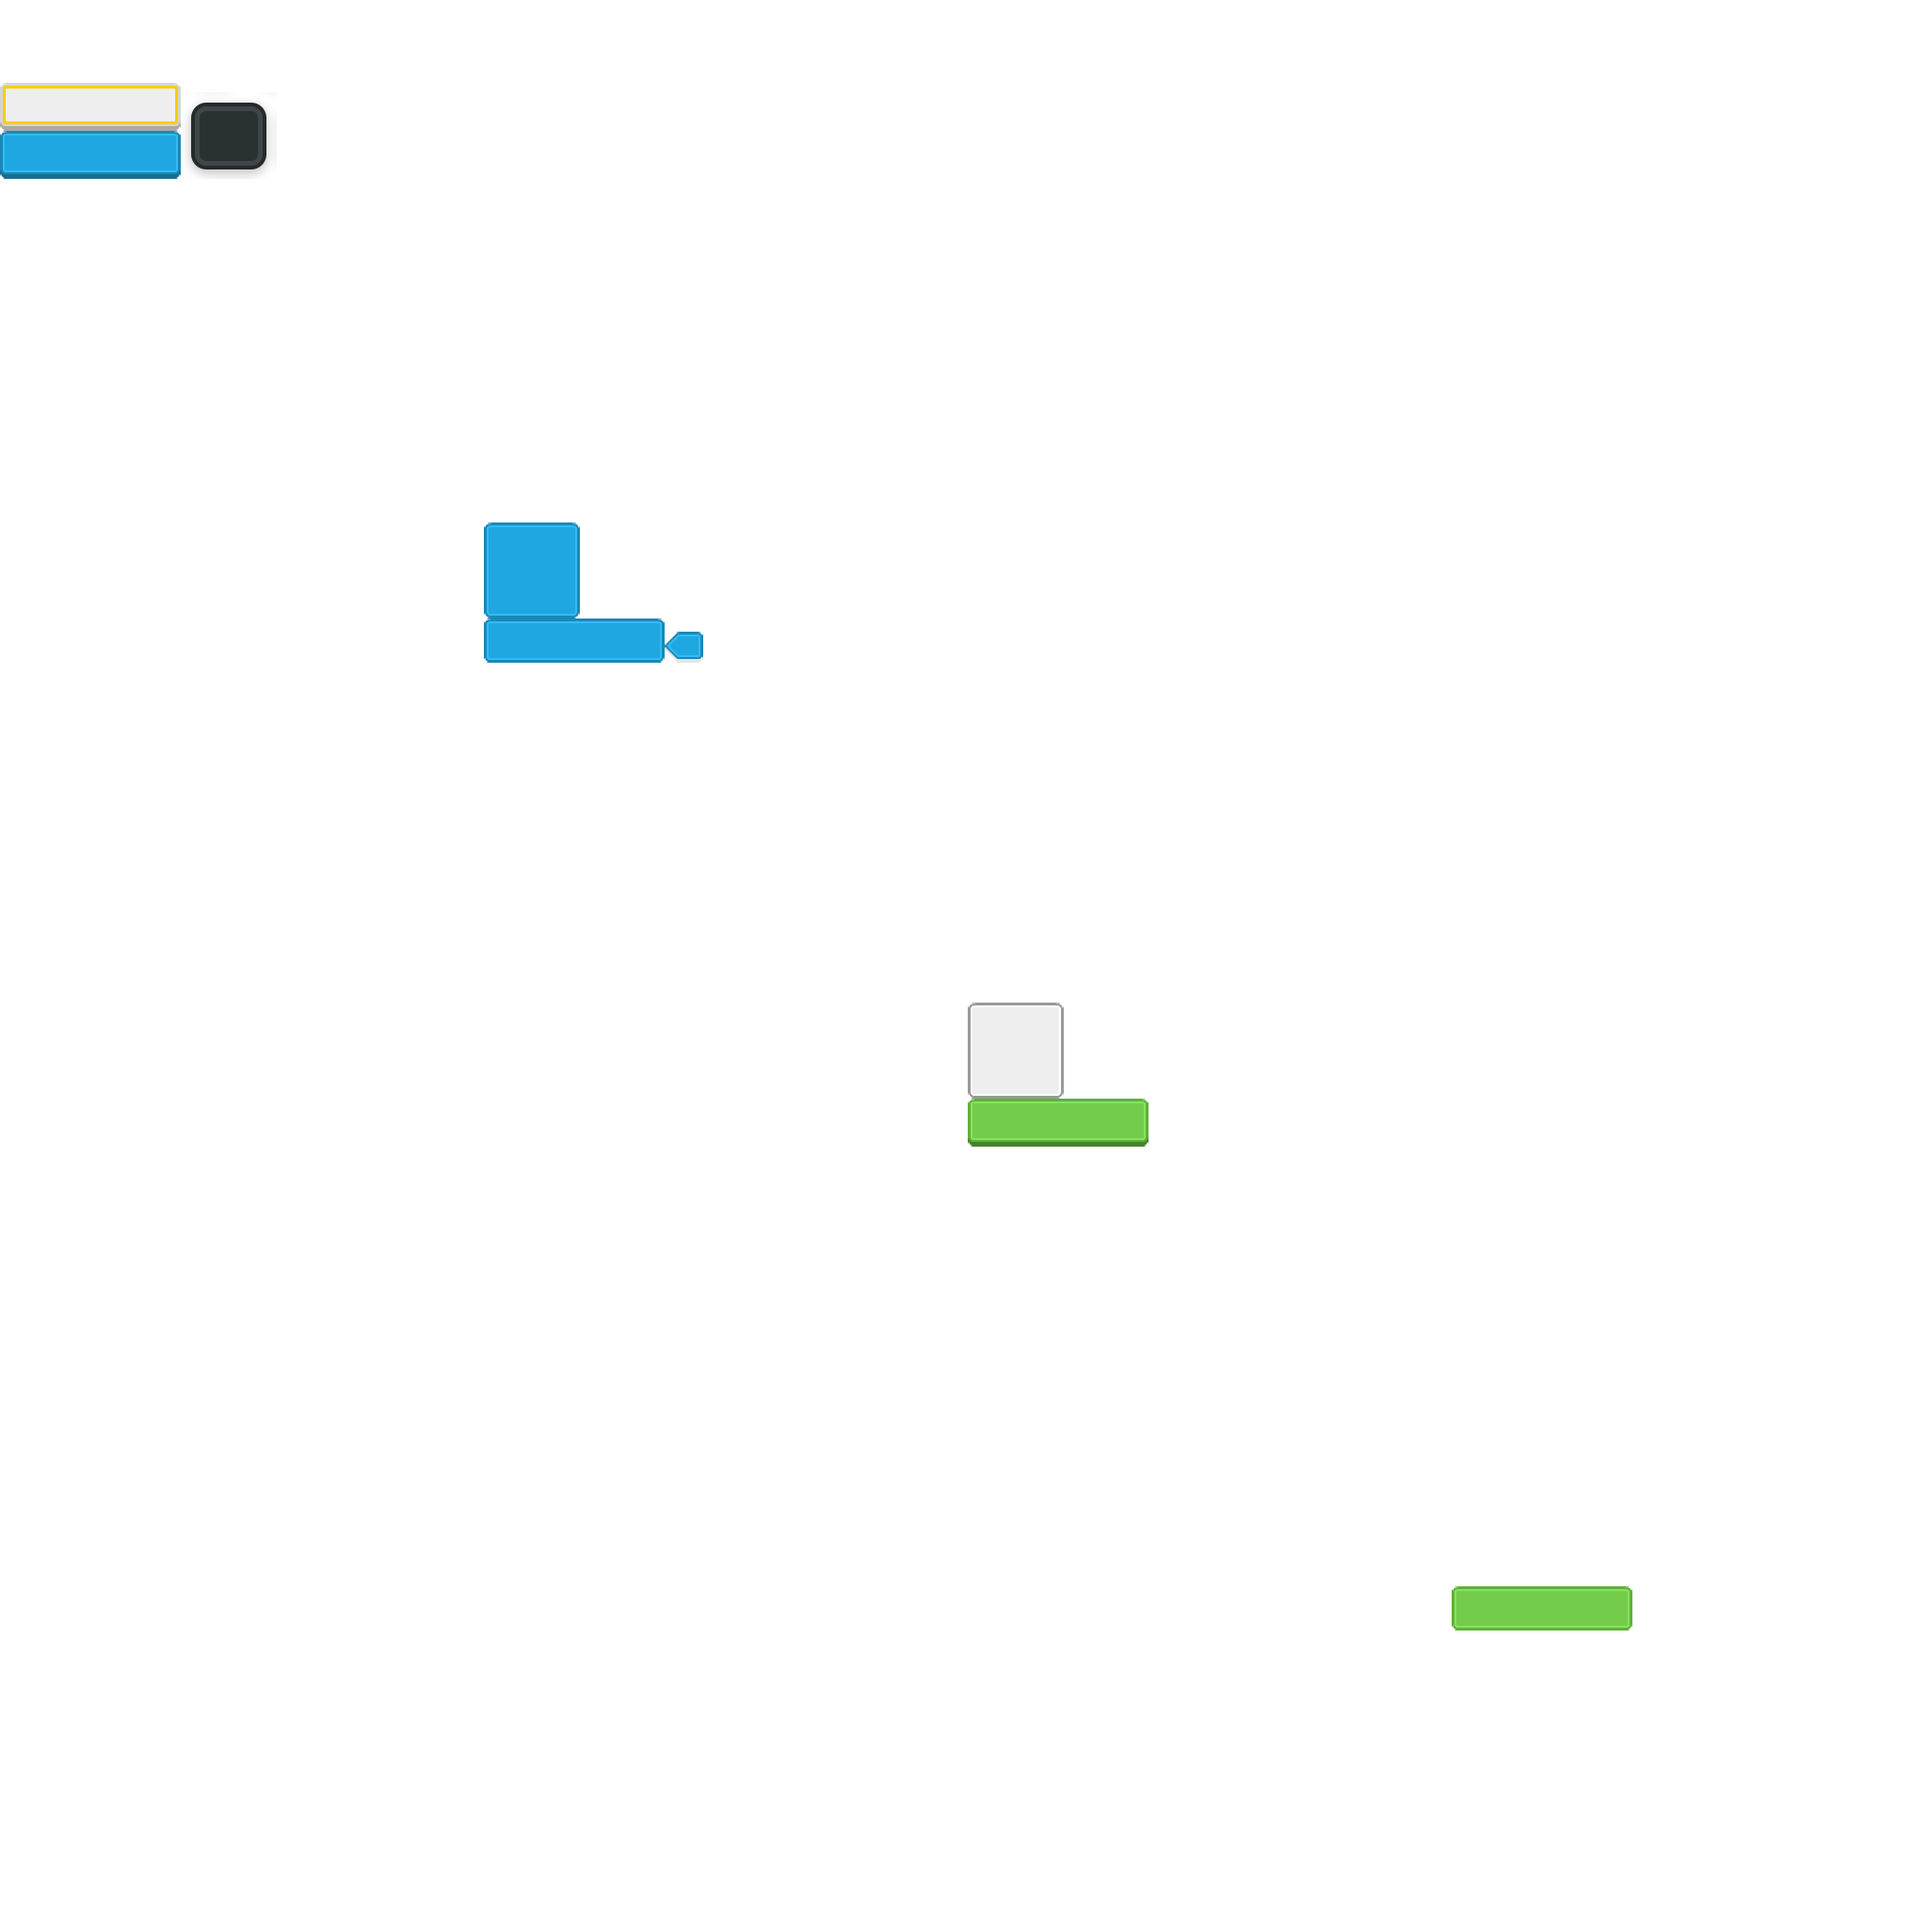
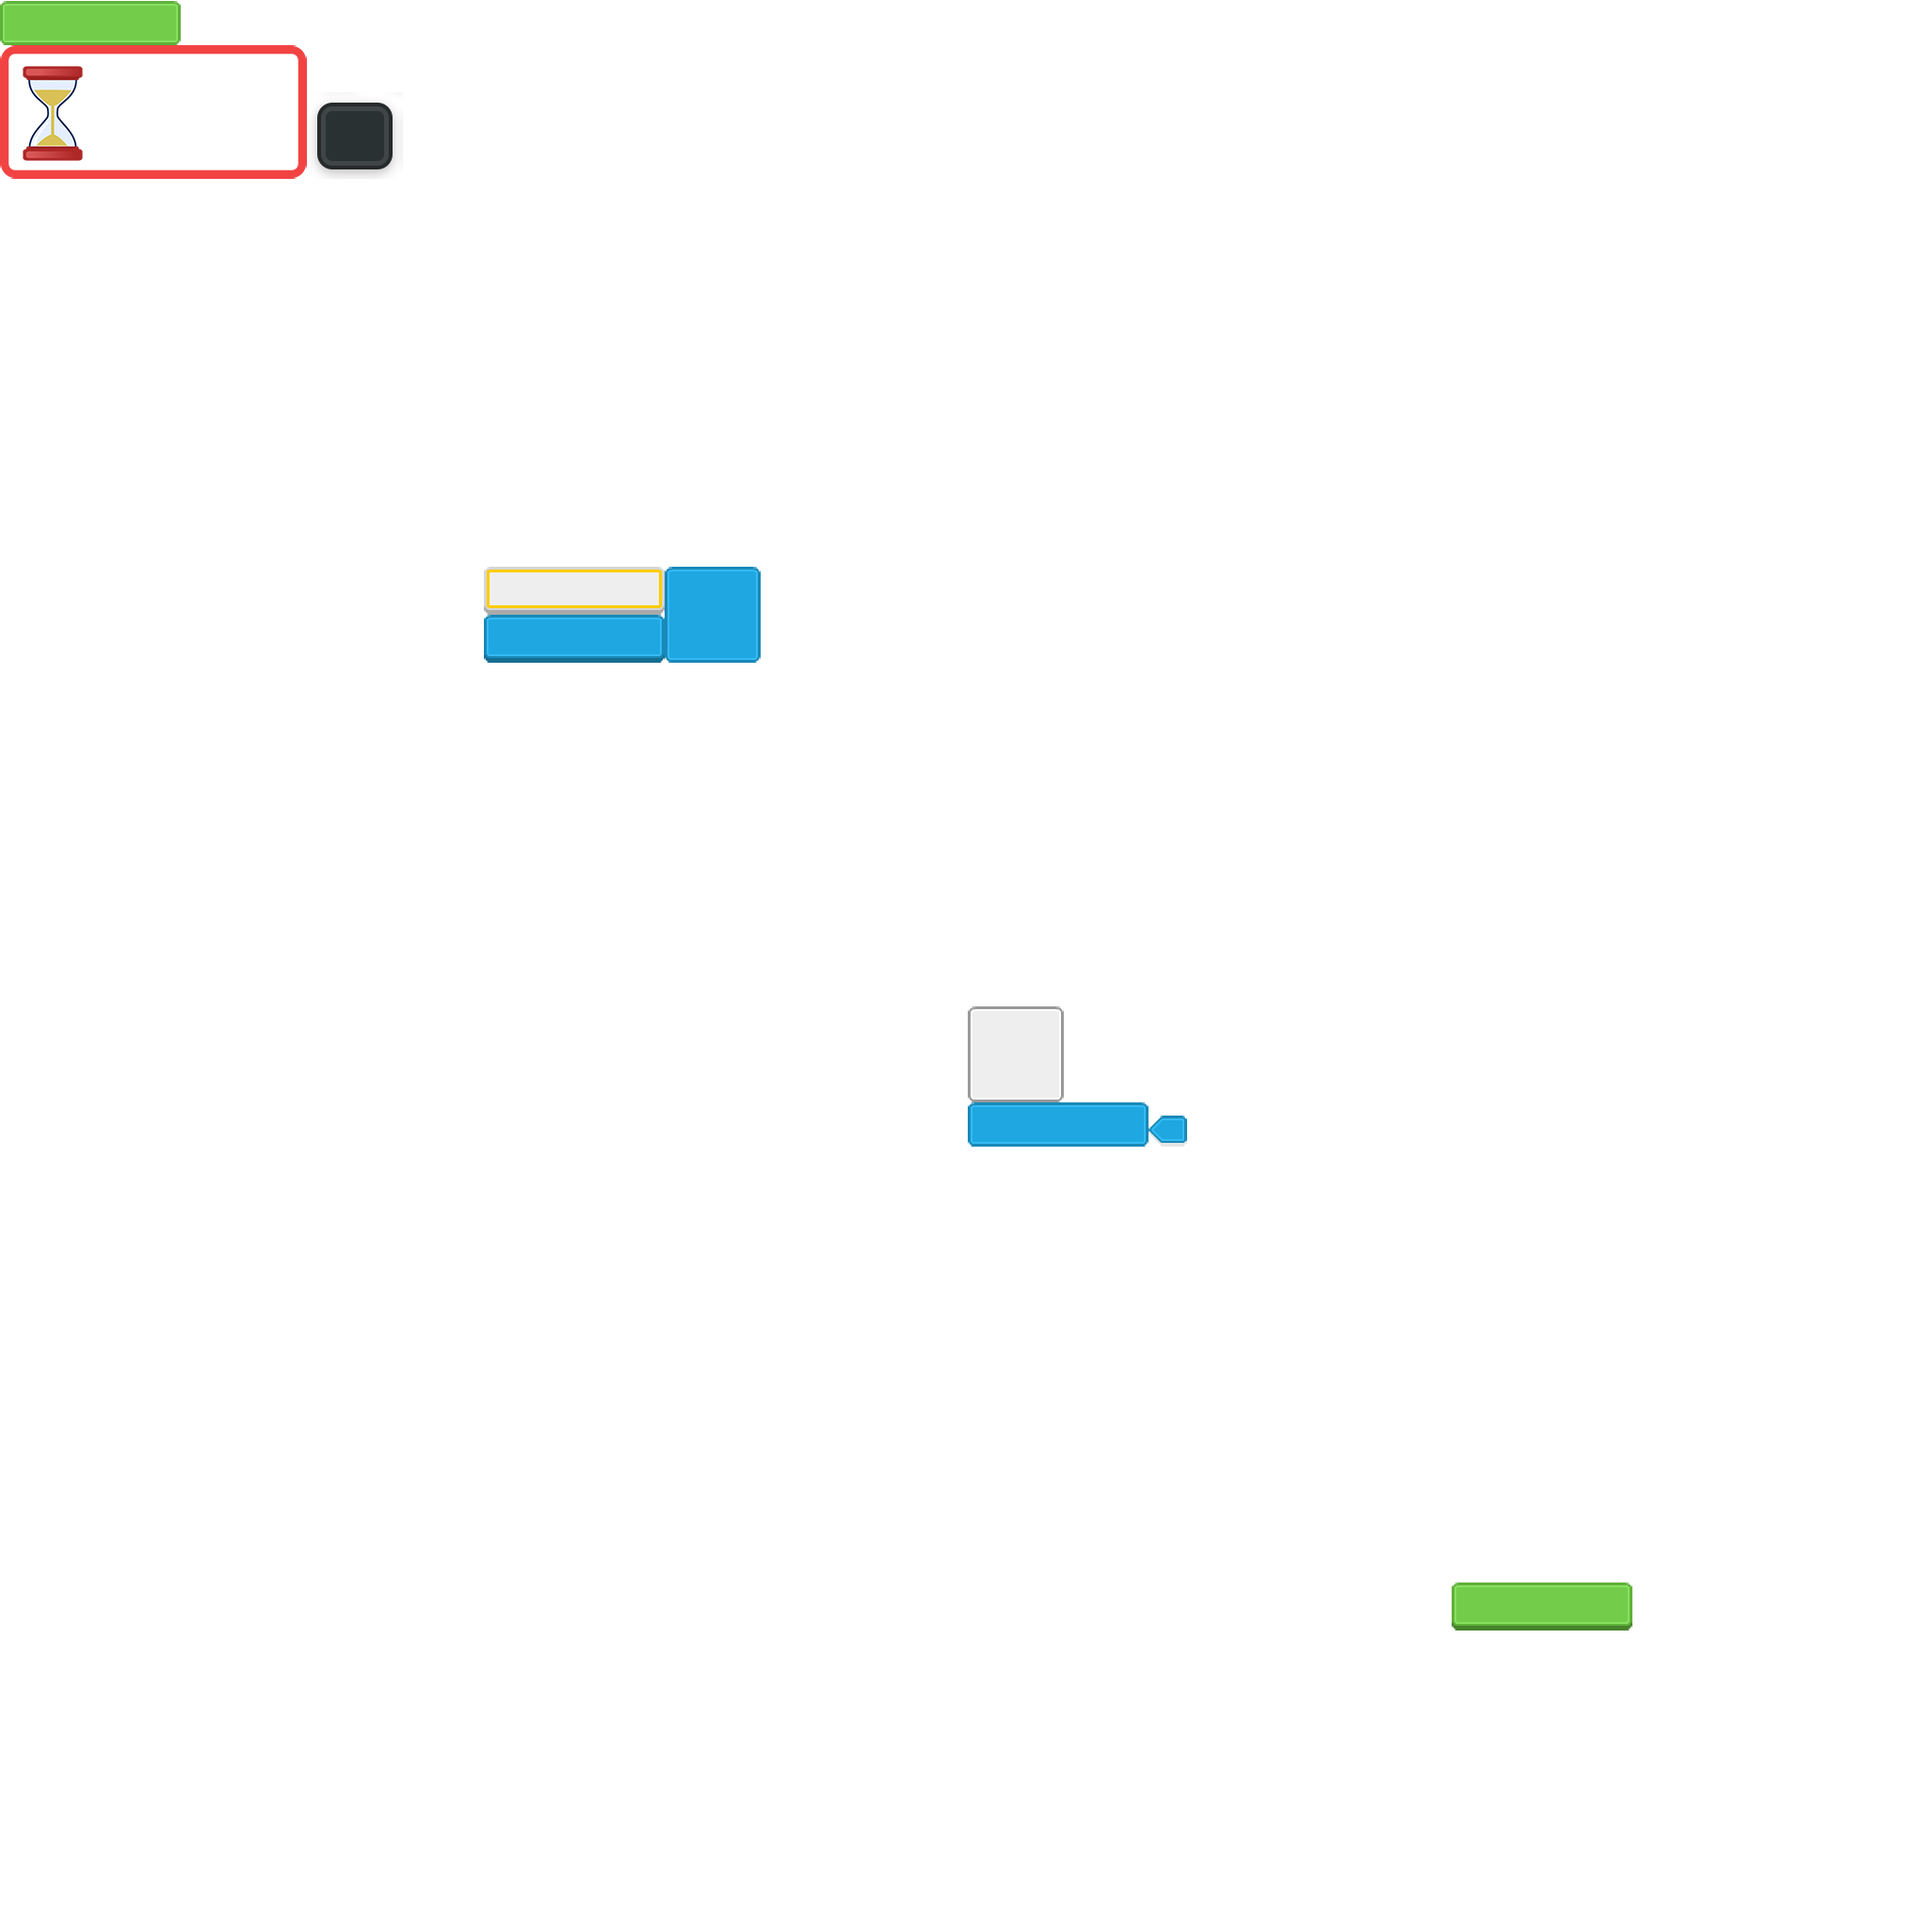
Add timeout penalty if you invalid slap when you have no cards

diff --git a/core/src/com/jaeheonshim/ersgame/screen/GameScreen.java b/core/src/com/jaeheonshim/ersgame/screen/GameScreen.java
@@ -1,15 +1,18 @@
 package com.jaeheonshim.ersgame.screen;
 
 import com.badlogic.gdx.Gdx;
+import com.badlogic.gdx.Input;
 import com.badlogic.gdx.Screen;
 import com.badlogic.gdx.graphics.Color;
 import com.badlogic.gdx.scenes.scene2d.InputEvent;
+import com.badlogic.gdx.scenes.scene2d.InputListener;
 import com.badlogic.gdx.scenes.scene2d.Stage;
 import com.badlogic.gdx.scenes.scene2d.actions.AlphaAction;
 import com.badlogic.gdx.scenes.scene2d.actions.RunnableAction;
 import com.badlogic.gdx.scenes.scene2d.actions.SequenceAction;
 import com.badlogic.gdx.scenes.scene2d.ui.ScrollPane;
 import com.badlogic.gdx.scenes.scene2d.ui.Skin;
+import com.badlogic.gdx.scenes.scene2d.ui.Stack;
 import com.badlogic.gdx.scenes.scene2d.ui.Table;
 import com.badlogic.gdx.scenes.scene2d.utils.ClickListener;
 import com.badlogic.gdx.utils.ScreenUtils;
@@ -35,7 +38,10 @@ import java.util.Map;
 public class GameScreen implements Screen, GameStateUpdateListener, GameActionListener {
     private ERSGame game;
     private Stage stage;
+
     private Table table;
+    private Table overlayTable;
+    private Stack stack;
 
     private PileDisplayActor pileDisplayActor;
     private PlayersPane playersPane;
@@ -44,10 +50,13 @@ public class GameScreen implements Screen, GameStateUpdateListener, GameActionLi
 
     private ERSLabel pileCount;
     private ERSLabel selfCount;
+    private ERSLabel timeoutLabel;
     private ERSTextButton playButton;
 
     private boolean awaitGameUpdatePile;
     private boolean pendingPileUpdate;
+
+    private float timeoutTimer = 0;
 
     public GameScreen(ERSGame game) {
         this.game = game;
@@ -77,6 +86,8 @@ public class GameScreen implements Screen, GameStateUpdateListener, GameActionLi
 
         playButton = new ERSTextButton("Play", skin, game);
 
+        timeoutLabel = new ERSLabel("0:00", skin, "timeout", game);
+
         table.setFillParent(true);
         table.add(playerScrollPane).expandX().height(200).fill().top();
         table.row();
@@ -88,7 +99,17 @@ public class GameScreen implements Screen, GameStateUpdateListener, GameActionLi
         table.row();
         table.add(playButton).expandY().top().padTop(2);
 
-        stage.addActor(table);
+        overlayTable = new Table();
+        table.setFillParent(true);
+        overlayTable.add(timeoutLabel).center().padLeft(50);
+        timeoutLabel.setVisible(false);
+
+        stack = new Stack();
+        stack.setFillParent(true);
+        stack.add(table);
+        stack.add(overlayTable);
+
+        stage.addActor(stack);
         stage.addActor(animationCard);
 
         playButton.addListener(new ClickListener() {
@@ -113,6 +134,8 @@ public class GameScreen implements Screen, GameStateUpdateListener, GameActionLi
         pileDisplayActor.addListener(new ClickListener() {
             @Override
             public void clicked(InputEvent event, float x, float y) {
+                if(timeoutTimer > 0) return;
+
                 if(GameStateManager.getInstance().getGameState().getPileCount() <= 0) {
                     OverlayStage.getInstance().postOverlayMessage("There aren't any cards to slap!");
                     return;
@@ -215,6 +238,11 @@ public class GameScreen implements Screen, GameStateUpdateListener, GameActionLi
         animationCard.flyIn(pileDisplayActor.getX(), pileDisplayActor.getY(), !you, () -> {});
     }
 
+    @Override
+    public void onGameTimeout(float time) {
+        this.timeoutTimer = time;
+    }
+
     public void updatePlayButtonDisableState() {
         Player selfPlayer = GameStateManager.getInstance().getSelfPlayer();
 
@@ -248,6 +276,14 @@ public class GameScreen implements Screen, GameStateUpdateListener, GameActionLi
         resize(Gdx.graphics.getWidth(), Gdx.graphics.getHeight());
         Gdx.input.setInputProcessor(stage);
         onUpdate(GameStateManager.getInstance().getGameState());
+
+        stage.addListener(new InputListener() {
+            @Override
+            public boolean keyDown(InputEvent event, int keycode) {
+                timeoutTimer = 30;
+                return true;
+            }
+        });
     }
 
     @Override
@@ -267,6 +303,15 @@ public class GameScreen implements Screen, GameStateUpdateListener, GameActionLi
                 pileDisplayActor.setTopFlipped(true);
                 pileDisplayActor.flipTop();
             }
+        }
+
+        if(timeoutTimer > 0) {
+            timeoutTimer -= delta;
+            timeoutLabel.setVisible(true);
+            timeoutLabel.setText(getTimeoutTimerString(timeoutTimer));
+        } else {
+            timeoutTimer = 0;
+            timeoutLabel.setVisible(false);
         }
     }
 
@@ -293,5 +338,14 @@ public class GameScreen implements Screen, GameStateUpdateListener, GameActionLi
     @Override
     public void dispose() {
 
+    }
+
+    public static String getTimeoutTimerString(float timeoutTimer) {
+        int mins = (int) (timeoutTimer / 60);
+        int secs = (int) (timeoutTimer % 60);
+
+        String secsString = secs < 10 ? "0" + secs : Integer.toString(secs);
+
+        return mins + ":" + secsString;
     }
 }

diff --git a/server/src/main/java/com/jaeheonshim/ersgame/server/listener/CardActionListener.java b/server/src/main/java/com/jaeheonshim/ersgame/server/listener/CardActionListener.java
@@ -1,6 +1,7 @@
 package com.jaeheonshim.ersgame.server.listener;
 
 import com.jaeheonshim.ersgame.server.action.ReenablePlayAction;
+import com.jaeheonshim.ersgame.server.action.ReleaseTimeoutAction;
 import com.jaeheonshim.ersgame.util.ERSException;
 import com.jaeheonshim.ersgame.game.model.CardType;
 import com.jaeheonshim.ersgame.game.model.GameState;
@@ -44,6 +45,8 @@ public class CardActionListener extends ServerPacketListener {
                 boolean isValid = GameStateUtil.isValidSlap(gameState);
                 Player player = gameState.getPlayer(uuid);
 
+                if(player.isTimedOut()) throw new ERSException("You aren't allowed to slap right now!");
+
                 if(isValid) {
                     int incrementAmount = gameState.getPileCount();
                     server.broadcast(new OverlayMessagePacket(player.getUsername() + " slapped: +" + incrementAmount + " cards"), gameState);
@@ -59,12 +62,18 @@ public class CardActionListener extends ServerPacketListener {
 
                     server.broadcast(new PointChangePacket(player.getUuid(), incrementAmount), gameState);
                 } else {
-                    server.broadcast(new OverlayMessagePacket(player.getUsername() + " slapped: -1 cards"), gameState);
-                    server.broadcastExcept(new GameActionPacket(GameAction.OTHERS_DISCARD), gameState, uuid);
-                    server.send(new GameActionPacket(GameAction.YOU_DISCARD), uuid);
                     if(player.getCardCount() > 0) {
+                        server.broadcastExcept(new GameActionPacket(GameAction.OTHERS_DISCARD), gameState, uuid);
+                        server.send(new GameActionPacket(GameAction.YOU_DISCARD), uuid);
+                        server.broadcast(new OverlayMessagePacket(player.getUsername() + " slapped: -1 cards"), gameState);
                         gameState.addCardToBottom(player.removeTopCard());
                         server.broadcast(new PointChangePacket(player.getUuid(), -1), gameState);
+                    } else {
+                        float timeAmount = 10;
+                        server.broadcast(new OverlayMessagePacket(player.getUsername() + " slapped: " + ((int) timeAmount) + " sec penalty!"), gameState);
+                        server.send(new SlapTimeoutPacket(timeAmount), player.getUuid());
+                        player.setTimedOut(true);
+                        server.schedule(new ReleaseTimeoutAction(timeAmount, player));
                     }
                 }
 

diff --git a/core/src/com/jaeheonshim/ersgame/net/listener/SlapTimeoutPacketListener.java b/core/src/com/jaeheonshim/ersgame/net/listener/SlapTimeoutPacketListener.java
@@ -1,0 +1,24 @@
+package com.jaeheonshim.ersgame.net.listener;
+
+import com.badlogic.gdx.Gdx;
+import com.github.czyzby.websocket.WebSocket;
+import com.jaeheonshim.ersgame.game.GameStateManager;
+import com.jaeheonshim.ersgame.net.packet.SlapTimeoutPacket;
+import com.jaeheonshim.ersgame.net.packet.SocketPacket;
+
+public class SlapTimeoutPacketListener extends SocketPacketListener {
+    @Override
+    public boolean receive(WebSocket socket, SocketPacket packet) {
+        if(packet instanceof SlapTimeoutPacket) {
+            SlapTimeoutPacket slapTimeoutPacket = ((SlapTimeoutPacket) packet);
+
+            Gdx.app.postRunnable(() -> {
+                GameStateManager.getInstance().onGameTimeout(slapTimeoutPacket.time);
+            });
+
+            return true;
+        }
+
+        return false;
+    }
+}

diff --git a/server/src/main/java/com/jaeheonshim/ersgame/server/action/ReleaseTimeoutAction.java b/server/src/main/java/com/jaeheonshim/ersgame/server/action/ReleaseTimeoutAction.java
@@ -1,0 +1,23 @@
+package com.jaeheonshim.ersgame.server.action;
+
+import com.jaeheonshim.ersgame.game.model.Player;
+
+public class ReleaseTimeoutAction implements GameAction {
+    private float timer;
+    private Player player;
+
+    public ReleaseTimeoutAction(float timer, Player player) {
+        this.timer = timer;
+        this.player = player;
+    }
+
+    @Override
+    public long getDelay() {
+        return (long) (timer * 1000);
+    }
+
+    @Override
+    public void run() {
+        player.setTimedOut(false);
+    }
+}

diff --git a/core/src/com/jaeheonshim/ersgame/game/model/Player.java b/core/src/com/jaeheonshim/ersgame/game/model/Player.java
@@ -12,6 +12,8 @@ public class Player {
     private transient Queue<CardType> cardStack = new Queue<>();
     private int cardCount;
 
+    private boolean isTimedOut;
+
     public Player() {
     }
 
@@ -57,6 +59,14 @@ public class Player {
 
     public int getCardCount() {
         return cardCount;
+    }
+
+    public boolean isTimedOut() {
+        return isTimedOut;
+    }
+
+    public void setTimedOut(boolean timedOut) {
+        isTimedOut = timedOut;
     }
 
     @Override

diff --git a/desktop/src/com/jaeheonshim/ersgame/desktop/DesktopLauncher.java b/desktop/src/com/jaeheonshim/ersgame/desktop/DesktopLauncher.java
@@ -18,7 +18,7 @@ public class DesktopLauncher {
 		settings.maxWidth = 2048;
 		settings.maxHeight = 2048;
 //		TexturePacker.process(settings, "cards_unpacked", "cards", "cards");
-		TexturePacker.process(settings, "images", ".", "images");
+//		TexturePacker.process(settings, "images", ".", "images");
 
 		LwjglApplicationConfiguration config = new LwjglApplicationConfiguration();
 		config.width = 768;

diff --git a/core/src/com/jaeheonshim/ersgame/game/GameStateManager.java b/core/src/com/jaeheonshim/ersgame/game/GameStateManager.java
@@ -67,6 +67,12 @@ public class GameStateManager {
         }
     }
 
+    public void onGameTimeout(float time) {
+        for(GameActionListener listener : gameActionListeners) {
+            listener.onGameTimeout(time);
+        }
+    }
+
     public Player getSelfPlayer() {
         if(gameState == null) return null;
         return gameState.getPlayer(NetManager.getInstance().getClientUuid());

diff --git a/core/src/com/jaeheonshim/ersgame/net/NetManager.java b/core/src/com/jaeheonshim/ersgame/net/NetManager.java
@@ -31,6 +31,7 @@ public class NetManager {
         instance.registerListener(new OverlayMessageListener());
         instance.registerListener(new GameActionPacketListener());
         instance.registerListener(new PointChangePacketListener());
+        instance.registerListener(new SlapTimeoutPacketListener());
     }
 
     private NetManager() {

diff --git a/core/src/com/jaeheonshim/ersgame/net/packet/SlapTimeoutPacket.java b/core/src/com/jaeheonshim/ersgame/net/packet/SlapTimeoutPacket.java
@@ -1,0 +1,12 @@
+package com.jaeheonshim.ersgame.net.packet;
+
+public class SlapTimeoutPacket extends SocketPacket {
+    public float time;
+
+    public SlapTimeoutPacket() {
+    }
+
+    public SlapTimeoutPacket(float time) {
+        this.time = time;
+    }
+}

diff --git a/core/src/com/jaeheonshim/ersgame/game/GameActionListener.java b/core/src/com/jaeheonshim/ersgame/game/GameActionListener.java
@@ -6,4 +6,5 @@ public interface GameActionListener {
     default void onTurnUpdate() {}
     default void onDiscard(boolean you) {}
     default void onPointUpdate(String uuid, int amount) {}
+    default void onGameTimeout(float time) {}
 }
